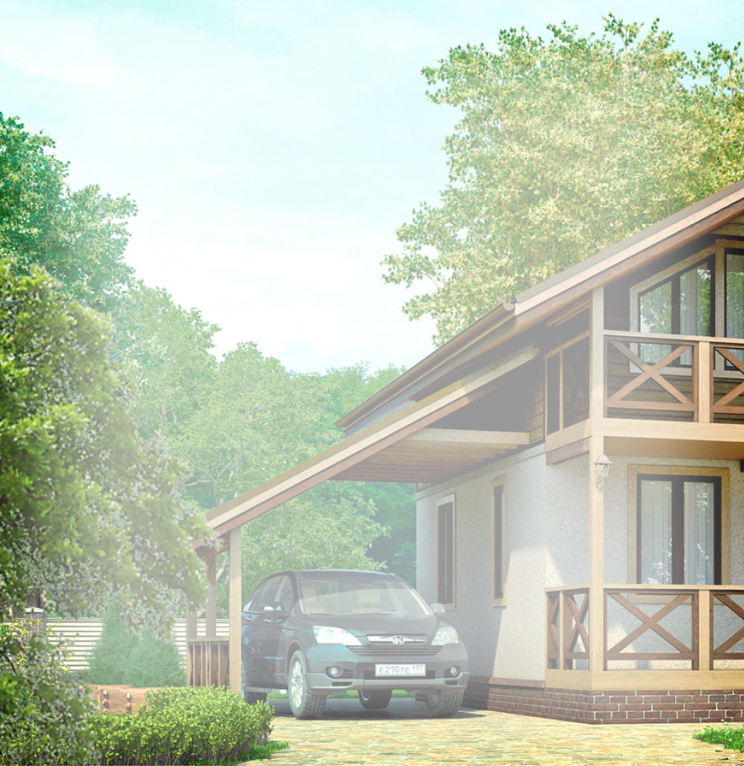
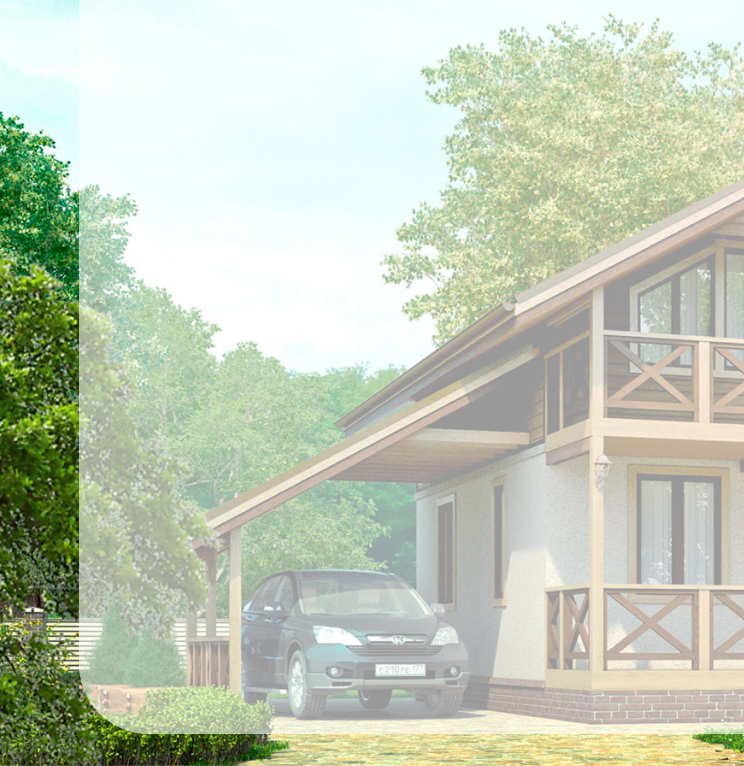
modify header

Changed region(s): [[0.0, 0.0, 1.0, 1.0], [0.1855, 0.0, 0.2473, 0.03], [0.0927, 0.0, 0.1546, 0.03]]

diff --git a/src/html/index.html b/src/html/index.html
@@ -64,77 +64,146 @@
         </div>
       </div>
     </div>
-    <div class="header__hero">
-      <div class="header__container">
-        <div class="header__hero-content">
-          <h1 class="header__title">Построим современный теплый дом с&nbsp;гарантией 10&nbsp;лет</h1>
-          <p class="header__subtitle">
-            Проектирование и&nbsp;строительство деревянных каркасных домов для постоянного проживания
-          </p>
-          <a class="call-link header__btn" href="#">посмотреть проекты</a>
-          <p class="header__description">Более 180 проектов в&nbsp;каталоге</p>
+    
+      <div class="header__hero-slider">
+        <div class="header__hero" style="background-image: url('images/header-bg.jpg');">
+          <div class="header__container">
+            <div class="header__hero-content">
+              <h1 class="header__title">Построим современный теплый дом с&nbsp;гарантией 10&nbsp;лет</h1>
+              <p class="header__subtitle">
+                Проектирование и&nbsp;строительство деревянных каркасных домов для постоянного проживания
+              </p>
+              <a class="call-link header__btn" href="#">посмотреть проекты</a>
+              <p class="header__description">Более 180 проектов в&nbsp;каталоге</p>
+            </div>
+            <ul class="social-list">
+              <li class="social-item">
+                <a class="social-link" href="#">
+                  <svg class="social-icon" viewbox="0 0 25 25" role="img" aria-label="Ссылка на канал Telegram">
+                    <use xlink:href="#telegram" />
+                  </svg>
+                </a>
+              </li>
+              <li class="social-item">
+                <a class="social-link" href="#">
+                  <svg class="social-icon" viewbox="0 0 25 25" role="img" aria-label="Ссылка на канал Telegram">
+                    <use xlink:href="#whatsapp" />
+                  </svg>
+                </a>
+              </li>
+              <li class="social-item">
+                <a class="social-link" href="#">
+                  <svg class="social-icon" viewbox="0 0 25 25" role="img" aria-label="Ссылка на канал Telegram">
+                    <use xlink:href="#vkontakte" />
+                  </svg>
+                </a>
+              </li>
+              <li class="social-item">
+                <a class="social-link" href="#">
+                  <svg class="social-icon" viewbox="0 0 25 25" role="img" aria-label="Ссылка на канал Telegram">
+                    <use xlink:href="#youtube" />
+                  </svg>
+                </a>
+              </li>
+            </ul>
+          </div>
         </div>
-        <ul class="social-list">
-          <li class="social-item">
-            <a class="social-link" href="#">
-              <svg width="25" height="25" viewbox="0 0 25 25" fill="none" xmlns="http://www.w3.org/2000/svg">
-                <g clip-path="url(#clip0_151_56)">
-                  <rect x="2" y="2" width="20" height="20" rx="10" fill="#43BA54" />
-                  <path
-                    d="M11.9795 23.9583C18.0215 23.9583 22.917 18.8297 22.917 12.5C22.917 6.17018 18.0215 1.04163 11.9795 1.04163C5.93743 1.04163 1.04199 6.17018 1.04199 12.5C1.04199 18.8297 5.93743 23.9583 11.9795 23.9583ZM6.04681 12.2517L16.5924 7.99206C17.0818 7.80682 17.5093 8.11715 17.3507 8.89249L17.3516 8.89154L15.5561 17.7536C15.423 18.3819 15.0666 18.5347 14.568 18.2387L11.8337 16.1275L10.5148 17.4586C10.3689 17.6113 10.2459 17.7402 9.96335 17.7402L10.1575 14.825L15.2252 10.0288C15.4458 9.82539 15.176 9.71081 14.8852 9.91324L8.62259 14.044L5.92285 13.1617C5.33678 12.9669 5.32402 12.5477 6.04681 12.2517Z"
-                    fill="white" />
-                  <circle cx="12.5" cy="12.5" r="12" stroke="#43BA54" />
-                </g>
-                <defs>
-                  <clipPath id="clip0_151_56">
-                    <rect width="25" height="25" fill="white" />
-                  </clipPath>
-                </defs>
-              </svg>
-            </a>
-          </li>
-          <li class="social-item">
-            <a class="social-link" href="#">
-              <svg width="25" height="25" viewbox="0 0 25 25" fill="none" xmlns="http://www.w3.org/2000/svg">
-                <rect width="25" height="25" rx="12.368" fill="white" />
-                <path
-                  d="M18.0998 6.88106C16.7597 5.50156 14.9072 4.75269 13.0153 4.75269C8.99503 4.75269 5.76305 8.02408 5.80246 12.0049C5.80246 13.2662 6.15719 14.488 6.74841 15.5916L5.72363 19.336L9.54683 18.3507C10.611 18.9419 11.7935 19.2178 12.9759 19.2178C16.9567 19.2178 20.1887 15.9464 20.1887 11.9655C20.1887 10.0342 19.4399 8.22115 18.0998 6.88106ZM13.0153 17.9959C11.9511 17.9959 10.8869 17.72 9.98039 17.1682L9.7439 17.05L7.45787 17.6412L8.04908 15.3946L7.89143 15.1581C6.15719 12.3597 6.98489 8.65471 9.82273 6.92048C12.6606 5.18624 16.3261 6.01395 18.0603 8.85178C19.7946 11.6896 18.9669 15.3552 16.129 17.0894C15.2225 17.6806 14.1189 17.9959 13.0153 17.9959ZM16.4838 13.6209L16.0502 13.4239C16.0502 13.4239 15.4196 13.148 15.0254 12.9509C14.986 12.9509 14.9466 12.9115 14.9072 12.9115C14.7889 12.9115 14.7101 12.9509 14.6313 12.9903C14.6313 12.9903 14.5919 13.0297 14.0401 13.6603C14.0007 13.7392 13.9218 13.7786 13.843 13.7786H13.8036C13.7642 13.7786 13.6853 13.7392 13.6459 13.6998L13.4489 13.6209C13.0153 13.4239 12.6212 13.1874 12.3058 12.8721C12.227 12.7932 12.1088 12.7144 12.0299 12.6356C11.754 12.3597 11.4781 12.0444 11.2811 11.6896L11.2417 11.6108C11.2022 11.5714 11.2022 11.532 11.1628 11.4531C11.1628 11.3743 11.1628 11.2955 11.2022 11.2561C11.2022 11.2561 11.3599 11.059 11.4781 10.9407C11.557 10.8619 11.5964 10.7437 11.6752 10.6648C11.754 10.5466 11.7935 10.3889 11.754 10.2707C11.7146 10.0736 11.2417 9.00944 11.1234 8.77296C11.0446 8.65471 10.9658 8.6153 10.8475 8.57588H10.7293C10.6504 8.57588 10.5322 8.57588 10.4139 8.57588C10.3351 8.57588 10.2563 8.6153 10.1775 8.6153L10.138 8.65471C10.0592 8.69413 9.98039 8.77296 9.90156 8.81237C9.82273 8.8912 9.78332 8.97003 9.70449 9.04886C9.42859 9.40359 9.27093 9.83714 9.27093 10.2707C9.27093 10.586 9.34976 10.9013 9.468 11.1772L9.50742 11.2955C9.86215 12.0444 10.3351 12.7144 10.9658 13.3056L11.1234 13.4633C11.2417 13.5815 11.3599 13.6603 11.4387 13.7786C12.2664 14.488 13.2124 15.0004 14.2766 15.2763C14.3948 15.3157 14.5525 15.3157 14.6707 15.3552C14.7889 15.3552 14.9466 15.3552 15.0648 15.3552C15.2619 15.3552 15.4984 15.2763 15.6561 15.1975C15.7743 15.1187 15.8531 15.1187 15.932 15.0398L16.0108 14.961C16.0896 14.8822 16.1685 14.8428 16.2473 14.7639C16.3261 14.6851 16.4049 14.6063 16.4444 14.5275C16.5232 14.3698 16.5626 14.1727 16.602 13.9757C16.602 13.8968 16.602 13.7786 16.602 13.6998C16.602 13.6998 16.5626 13.6603 16.4838 13.6209Z"
-                  fill="#43BA54" />
-                <circle cx="12.5" cy="12.5" r="12" stroke="#43BA54" />
-              </svg>
-            </a>
-          </li>
-          <li class="social-item">
-            <a class="social-link" href="#">
-              <svg width="25" height="25" viewbox="0 0 25 25" fill="none" xmlns="http://www.w3.org/2000/svg">
-                <rect width="25" height="25" rx="12.2024" fill="white" />
-                <path fill-rule="evenodd" clip-rule="evenodd"
-                  d="M20.95 8.82193C21.0687 8.42622 20.95 8.13538 20.3851 8.13538H18.5173C18.0424 8.13538 17.8235 8.3866 17.7048 8.6637C17.7048 8.6637 16.7549 10.9789 15.4093 12.4827C14.9739 12.918 14.7761 13.0564 14.5386 13.0564C14.4199 13.0564 14.248 12.918 14.248 12.5223V8.82193C14.248 8.34697 14.1102 8.13538 13.7144 8.13538H10.7792C10.4825 8.13538 10.304 8.35578 10.304 8.56471C10.304 9.01498 10.9767 9.11878 11.0461 10.3852V13.1358C11.0461 13.7388 10.9372 13.8482 10.6997 13.8482C10.0665 13.8482 8.52637 11.5225 7.61274 8.86156C7.4337 8.3443 7.25412 8.13538 6.77676 8.13538H4.90895C4.37529 8.13538 4.26855 8.3866 4.26855 8.6637C4.26855 9.1584 4.90188 11.6122 7.21703 14.8574C8.76065 17.0734 10.9351 18.2749 12.9139 18.2749C14.1013 18.2749 14.248 18.0081 14.248 17.5485V15.8735C14.248 15.3398 14.3605 15.2333 14.7363 15.2333C15.0136 15.2333 15.4884 15.3718 16.5967 16.4403C17.863 17.7066 18.0717 18.2749 18.7841 18.2749H20.652C21.1856 18.2749 21.4524 18.0081 21.2985 17.4815C21.1301 16.9567 20.5255 16.1954 19.7231 15.2927C19.2878 14.7781 18.6347 14.224 18.437 13.9471C18.1599 13.5909 18.239 13.4326 18.437 13.1162C18.437 13.1162 20.7125 9.91047 20.95 8.82206V8.82193Z"
-                  fill="#43BA54" />
-                <circle cx="12.5" cy="12.5" r="12" stroke="#43BA54" />
-              </svg>
-            </a>
-          </li>
-          <li class="social-item">
-            <a class="social-link" href="#">
-              <svg width="25" height="25" viewbox="0 0 25 25" fill="none" xmlns="http://www.w3.org/2000/svg">
-                <rect y="1" width="24" height="24" rx="12" fill="white" />
-                <path
-                  d="M20.6635 16.405C20.6635 16.405 20.5009 17.5825 19.9981 18.1C19.355 18.7825 18.6379 18.7825 18.3126 18.82C15.9543 19 12.4205 19 12.4205 19C12.4205 19 8.05129 18.9625 6.69839 18.8275C6.32136 18.76 5.48596 18.775 4.84279 18.1C4.34007 17.5825 4.17004 16.405 4.17004 16.405C4.17004 16.405 4 15.025 4 13.645V12.3475C4 10.9675 4.17004 9.5875 4.17004 9.5875C4.17004 9.5875 4.33268 8.41 4.84279 7.8925C5.48596 7.21 6.19568 7.21 6.52836 7.1725C8.88668 7 12.4205 7 12.4205 7C12.4205 7 15.969 7 18.3348 7.15C18.66 7.225 19.3698 7.225 20.0351 7.87C20.5378 8.395 20.7005 9.595 20.7005 9.565C20.7005 9.535 20.8705 10.915 20.8483 12.325V13.6225C20.8335 15.025 20.6265 16.375 20.6265 16.405H20.6635ZM10.6831 10.42V15.2125L15.2298 12.8275L10.6831 10.42Z"
-                  fill="#43BA54" />
-                <circle cx="12.5" cy="12.5" r="12" stroke="#43BA54" />
-              </svg>
-            </a>
-          </li>
-        </ul>
+
+        <div class="header__hero" style="background-image: url('images/header-bg_dark.jpg');">
+          <div class="header__container">
+            <div class="header__hero-content">
+              <h1 class="header__title dark-theme">Построим современный теплый дом с&nbsp;гарантией 10&nbsp;лет</h1>
+              <p class="header__subtitle dark-theme">
+                Проектирование и&nbsp;строительство деревянных каркасных домов для постоянного проживания
+              </p>
+              <a class="call-link header__btn" href="#">посмотреть проекты</a>
+              <p class="header__description dark-theme">Более 180 проектов в&nbsp;каталоге</p>
+            </div>
+            <ul class="social-list">
+              <li class="social-item">
+                <a class="social-link" href="#">
+                  <svg class="social-icon" viewbox="0 0 25 25" role="img" aria-label="Ссылка на канал Telegram">
+                    <use xlink:href="#telegram" />
+                  </svg>
+                </a>
+              </li>
+              <li class="social-item">
+                <a class="social-link" href="#">
+                  <svg class="social-icon" viewbox="0 0 25 25" role="img" aria-label="Ссылка на канал Telegram">
+                    <use xlink:href="#whatsapp" />
+                  </svg>
+                </a>
+              </li>
+              <li class="social-item">
+                <a class="social-link" href="#">
+                  <svg class="social-icon" viewbox="0 0 25 25" role="img" aria-label="Ссылка на канал Telegram">
+                    <use xlink:href="#vkontakte" />
+                  </svg>
+                </a>
+              </li>
+              <li class="social-item">
+                <a class="social-link" href="#">
+                  <svg class="social-icon" viewbox="0 0 25 25" role="img" aria-label="Ссылка на канал Telegram">
+                    <use xlink:href="#youtube" />
+                  </svg>
+                </a>
+              </li>
+            </ul>
+          </div>
+        </div>
       </div>
-    </div>
+    
   </header>
 
   <main class="main">
 
   </main>
   
-  
+  <svg class="hide">
+    <symbol id="telegram" width="25" height="25" fill="none" xmlns="http://www.w3.org/2000/svg">
+      <g clip-path="url(#clip0_151_56)">
+        <rect x="2" y="2" width="20" height="20" rx="10" fill="#43BA54" />
+        <path
+          d="M11.9795 23.9583C18.0215 23.9583 22.917 18.8297 22.917 12.5C22.917 6.17018 18.0215 1.04163 11.9795 1.04163C5.93743 1.04163 1.04199 6.17018 1.04199 12.5C1.04199 18.8297 5.93743 23.9583 11.9795 23.9583ZM6.04681 12.2517L16.5924 7.99206C17.0818 7.80682 17.5093 8.11715 17.3507 8.89249L17.3516 8.89154L15.5561 17.7536C15.423 18.3819 15.0666 18.5347 14.568 18.2387L11.8337 16.1275L10.5148 17.4586C10.3689 17.6113 10.2459 17.7402 9.96335 17.7402L10.1575 14.825L15.2252 10.0288C15.4458 9.82539 15.176 9.71081 14.8852 9.91324L8.62259 14.044L5.92285 13.1617C5.33678 12.9669 5.32402 12.5477 6.04681 12.2517Z"
+          fill="white" />
+        <circle cx="12.5" cy="12.5" r="12" stroke="#43BA54" />
+      </g>
+      <defs>
+        <clippath id="clip0_151_56">
+          <rect width="25" height="25" fill="white" />
+        </clippath>
+      </defs>
+    </symbol>
+  </svg>
+
+  <svg class="hide">
+    <symbol id="whatsapp" width="25" height="25" fill="none" xmlns="http://www.w3.org/2000/svg">
+      <rect width="25" height="25" rx="12.368" fill="white" />
+      <path
+        d="M18.0998 6.88106C16.7597 5.50156 14.9072 4.75269 13.0153 4.75269C8.99503 4.75269 5.76305 8.02408 5.80246 12.0049C5.80246 13.2662 6.15719 14.488 6.74841 15.5916L5.72363 19.336L9.54683 18.3507C10.611 18.9419 11.7935 19.2178 12.9759 19.2178C16.9567 19.2178 20.1887 15.9464 20.1887 11.9655C20.1887 10.0342 19.4399 8.22115 18.0998 6.88106ZM13.0153 17.9959C11.9511 17.9959 10.8869 17.72 9.98039 17.1682L9.7439 17.05L7.45787 17.6412L8.04908 15.3946L7.89143 15.1581C6.15719 12.3597 6.98489 8.65471 9.82273 6.92048C12.6606 5.18624 16.3261 6.01395 18.0603 8.85178C19.7946 11.6896 18.9669 15.3552 16.129 17.0894C15.2225 17.6806 14.1189 17.9959 13.0153 17.9959ZM16.4838 13.6209L16.0502 13.4239C16.0502 13.4239 15.4196 13.148 15.0254 12.9509C14.986 12.9509 14.9466 12.9115 14.9072 12.9115C14.7889 12.9115 14.7101 12.9509 14.6313 12.9903C14.6313 12.9903 14.5919 13.0297 14.0401 13.6603C14.0007 13.7392 13.9218 13.7786 13.843 13.7786H13.8036C13.7642 13.7786 13.6853 13.7392 13.6459 13.6998L13.4489 13.6209C13.0153 13.4239 12.6212 13.1874 12.3058 12.8721C12.227 12.7932 12.1088 12.7144 12.0299 12.6356C11.754 12.3597 11.4781 12.0444 11.2811 11.6896L11.2417 11.6108C11.2022 11.5714 11.2022 11.532 11.1628 11.4531C11.1628 11.3743 11.1628 11.2955 11.2022 11.2561C11.2022 11.2561 11.3599 11.059 11.4781 10.9407C11.557 10.8619 11.5964 10.7437 11.6752 10.6648C11.754 10.5466 11.7935 10.3889 11.754 10.2707C11.7146 10.0736 11.2417 9.00944 11.1234 8.77296C11.0446 8.65471 10.9658 8.6153 10.8475 8.57588H10.7293C10.6504 8.57588 10.5322 8.57588 10.4139 8.57588C10.3351 8.57588 10.2563 8.6153 10.1775 8.6153L10.138 8.65471C10.0592 8.69413 9.98039 8.77296 9.90156 8.81237C9.82273 8.8912 9.78332 8.97003 9.70449 9.04886C9.42859 9.40359 9.27093 9.83714 9.27093 10.2707C9.27093 10.586 9.34976 10.9013 9.468 11.1772L9.50742 11.2955C9.86215 12.0444 10.3351 12.7144 10.9658 13.3056L11.1234 13.4633C11.2417 13.5815 11.3599 13.6603 11.4387 13.7786C12.2664 14.488 13.2124 15.0004 14.2766 15.2763C14.3948 15.3157 14.5525 15.3157 14.6707 15.3552C14.7889 15.3552 14.9466 15.3552 15.0648 15.3552C15.2619 15.3552 15.4984 15.2763 15.6561 15.1975C15.7743 15.1187 15.8531 15.1187 15.932 15.0398L16.0108 14.961C16.0896 14.8822 16.1685 14.8428 16.2473 14.7639C16.3261 14.6851 16.4049 14.6063 16.4444 14.5275C16.5232 14.3698 16.5626 14.1727 16.602 13.9757C16.602 13.8968 16.602 13.7786 16.602 13.6998C16.602 13.6998 16.5626 13.6603 16.4838 13.6209Z"
+        fill="#43BA54" />
+      <circle cx="12.5" cy="12.5" r="12" stroke="#43BA54" />
+    </symbol>
+  </svg>
+
+  <svg class="hide">
+    <symbol id="vkontakte" width="25" height="25" fill="none" xmlns="http://www.w3.org/2000/svg">
+      <rect width="25" height="25" rx="12.2024" fill="white" />
+      <path fill-rule="evenodd" clip-rule="evenodd"
+        d="M20.95 8.82193C21.0687 8.42622 20.95 8.13538 20.3851 8.13538H18.5173C18.0424 8.13538 17.8235 8.3866 17.7048 8.6637C17.7048 8.6637 16.7549 10.9789 15.4093 12.4827C14.9739 12.918 14.7761 13.0564 14.5386 13.0564C14.4199 13.0564 14.248 12.918 14.248 12.5223V8.82193C14.248 8.34697 14.1102 8.13538 13.7144 8.13538H10.7792C10.4825 8.13538 10.304 8.35578 10.304 8.56471C10.304 9.01498 10.9767 9.11878 11.0461 10.3852V13.1358C11.0461 13.7388 10.9372 13.8482 10.6997 13.8482C10.0665 13.8482 8.52637 11.5225 7.61274 8.86156C7.4337 8.3443 7.25412 8.13538 6.77676 8.13538H4.90895C4.37529 8.13538 4.26855 8.3866 4.26855 8.6637C4.26855 9.1584 4.90188 11.6122 7.21703 14.8574C8.76065 17.0734 10.9351 18.2749 12.9139 18.2749C14.1013 18.2749 14.248 18.0081 14.248 17.5485V15.8735C14.248 15.3398 14.3605 15.2333 14.7363 15.2333C15.0136 15.2333 15.4884 15.3718 16.5967 16.4403C17.863 17.7066 18.0717 18.2749 18.7841 18.2749H20.652C21.1856 18.2749 21.4524 18.0081 21.2985 17.4815C21.1301 16.9567 20.5255 16.1954 19.7231 15.2927C19.2878 14.7781 18.6347 14.224 18.437 13.9471C18.1599 13.5909 18.239 13.4326 18.437 13.1162C18.437 13.1162 20.7125 9.91047 20.95 8.82206V8.82193Z"
+        fill="#43BA54" />
+      <circle cx="12.5" cy="12.5" r="12" stroke="#43BA54" />
+    </symbol>
+  </svg>
+
+  <svg class="hide">
+    <symbol id="youtube" width="25" height="25" fill="none" xmlns="http://www.w3.org/2000/svg">
+      <rect y="1" width="24" height="24" rx="12" fill="white" />
+      <path
+        d="M20.6635 16.405C20.6635 16.405 20.5009 17.5825 19.9981 18.1C19.355 18.7825 18.6379 18.7825 18.3126 18.82C15.9543 19 12.4205 19 12.4205 19C12.4205 19 8.05129 18.9625 6.69839 18.8275C6.32136 18.76 5.48596 18.775 4.84279 18.1C4.34007 17.5825 4.17004 16.405 4.17004 16.405C4.17004 16.405 4 15.025 4 13.645V12.3475C4 10.9675 4.17004 9.5875 4.17004 9.5875C4.17004 9.5875 4.33268 8.41 4.84279 7.8925C5.48596 7.21 6.19568 7.21 6.52836 7.1725C8.88668 7 12.4205 7 12.4205 7C12.4205 7 15.969 7 18.3348 7.15C18.66 7.225 19.3698 7.225 20.0351 7.87C20.5378 8.395 20.7005 9.595 20.7005 9.565C20.7005 9.535 20.8705 10.915 20.8483 12.325V13.6225C20.8335 15.025 20.6265 16.375 20.6265 16.405H20.6635ZM10.6831 10.42V15.2125L15.2298 12.8275L10.6831 10.42Z"
+        fill="#43BA54" />
+      <circle cx="12.5" cy="12.5" r="12" stroke="#43BA54" />
+    </symbol>
+  </svg>
 </body>
 </html>

diff --git a/src/scss/_header.scss b/src/scss/_header.scss
@@ -4,20 +4,20 @@
 @import 'global';
 
 .header {
+  position: relative;
   width: 100vw;
-  max-height: 900px;
-  background-image: url('../images/header-bg.jpg');
-  background-repeat: no-repeat;
-  background-size: cover;
-  background-position: top center;
-
+  height: 900px;
+  
   &__container {
     position: relative;
+    height: 100%;
   }
 
   &__menu {
+    position: sticky;
     width: 100%;
     background-color: rgba(43, 36, 36, 0.6);
+    z-index: 10;
   }
 
   &__inner {
@@ -32,9 +32,20 @@
     color: #fff;
   }
 
+  &__hero-slider {
+    margin-top: -120px;
+  }
+
+  &__hero {
+    height: 900px;
+    background-repeat: no-repeat;
+    background-size: cover;
+    background-position: top center;
+  }
+
   &__hero-content {
     max-width: 740px;
-    padding: 145px 0 250px 30px;
+    padding: 265px 0 0 30px;
   }
 
   &__title {
@@ -175,11 +186,16 @@
   font-size: 20px;
 }
 
-.social-list {
+ul.social-list {
   position: absolute;
+  left: 60px;
   bottom: 30px;
-  left: 30px;
   display: flex;
   gap: 28px;
+}
+
+.social-icon {
+  width: 25px;
+  height: 25px;
 }
 

diff --git a/src/js/main.js b/src/js/main.js
@@ -22,6 +22,14 @@ $(function () {
     $('.menu').toggleClass('menu--active');
   });
 
+  // слайдер hero
 
+  $('.header__hero-slider').slick({
+    arrows: false,
+    infinite: true,
+    fade: true,
+    autoplay: true,
+    autoplaySpeed: 7000,
+  });
 
 });

diff --git a/tasks/js.js b/tasks/js.js
@@ -18,6 +18,7 @@ const uglify  = require("gulp-uglify");
 const js = () => {
 	return src([
     'node_modules/jquery/dist/jquery.js',
+    'node_modules/slick-carousel/slick/slick.js',
     path.js.src
   ])
   .pipe(concat("main.min.js"))

diff --git a/src/scss/_global.scss b/src/scss/_global.scss
@@ -18,6 +18,18 @@ body {
   padding: 0 15px;
 }
 
+.hide {
+  display: none;
+}
+
+h1.dark-theme {
+  color: #B8912C;
+}
+
+.dark-theme {
+  color: #fff;
+}
+
 .logo {
   max-width: 172px;
   color: #fff;

diff --git a/src/scss/style.scss b/src/scss/style.scss
@@ -1,4 +1,4 @@
-
+@import '../../node_modules/slick-carousel/slick/slick.scss';
 @import 'header';
 
 
